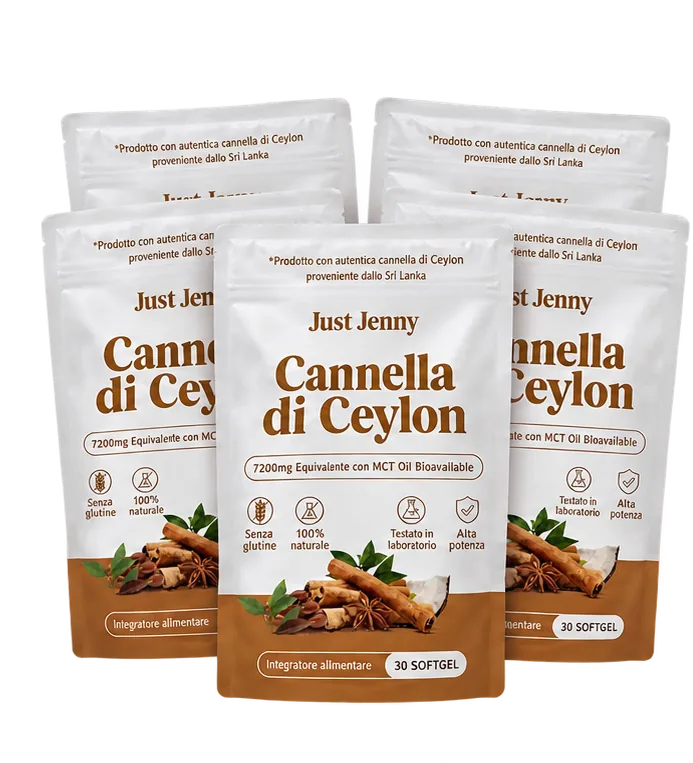
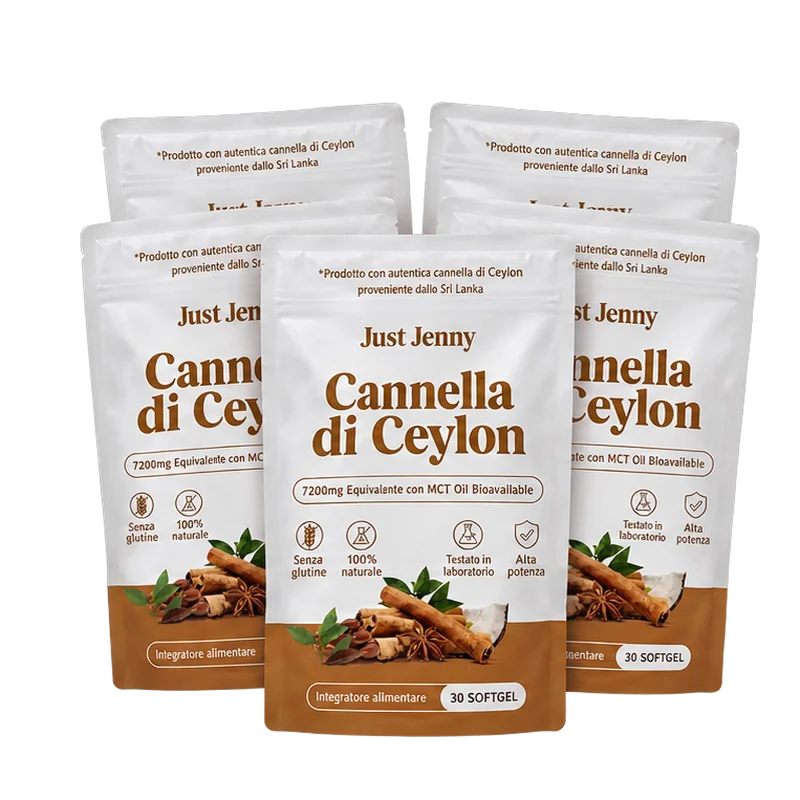
Compare: shorter bold title, pouch centered on column; black text on white buttons; bolder risk-free headline; offers headline black + new pouch photos
Claude-Session: https://claude.ai/code/session_015S3JaQdoW7XJTLZbosPqjp

Changed region(s): [[0.0606, 0.1507, 1.0, 0.9345], [0.5152, 0.1206, 0.5455, 0.3014]]

diff --git a/styles.css b/styles.css
@@ -37,12 +37,12 @@ svg{flex:none}
 .h2-md{font-family:Jost,Futura,sans-serif;font-weight:500;font-size:34px;line-height:1.2;color:var(--ink);max-width:720px}
 .h2-lg{font-family:Jost,Futura,sans-serif;font-weight:500;font-size:40px;line-height:1.15;color:var(--ink)}
 .h2-xl{font-family:Jost,Futura,sans-serif;font-weight:500;font-size:46px;line-height:1.15;color:var(--ink)}
-.h2-xl.light-w{font-weight:400}
+.h2-xl.light-w{font-weight:500}
 .eyebrow{font-size:15px;font-weight:600;letter-spacing:.1em;color:var(--orange-d)}
 .eyebrow-tag{background:var(--terra);color:#fff;font-size:13px;font-weight:700;letter-spacing:.04em;padding:8px 16px;border-radius:8px}
 .btn{display:inline-block;background:var(--terra);color:#fff;text-decoration:none;font-weight:700;font-size:17px;padding:18px 48px;border-radius:999px;text-align:center}
 .btn-wide{width:100%;max-width:520px}
-.btn-white{background:#fff;color:#8A4426}
+.btn-white{background:#fff;color:#111}
 .btn-shadow{background:var(--orange-d);box-shadow:0 10px 28px rgba(106,52,32,.14)}
 .guar-line{display:flex;align-items:center;justify-content:center;gap:8px;font-size:15px;color:var(--body)}
 .guar-line svg{width:16px;height:16px;fill:none;stroke:var(--orange);stroke-width:2;stroke-linecap:round;stroke-linejoin:round}
@@ -297,7 +297,7 @@ svg{flex:none}
 .cmp-cell:last-child{border-bottom:0}
 .x-dot{width:20px;height:20px;border-radius:50%;background:#6E6A66;color:#fff;font-size:11px;display:flex;align-items:center;justify-content:center}
 .cmp-copy{flex:1 1 380px;min-width:0;display:flex;flex-direction:column;gap:18px}
-.cmp-copy h2{font-family:Jost,sans-serif;font-weight:500;font-size:30px;line-height:1.15}
+.cmp-copy h2{font-family:Jost,sans-serif;font-weight:600;font-size:30px;line-height:1.15}
 .cmp-copy ul{margin:0;padding:0;list-style:none;display:flex;flex-direction:column;gap:11px;line-height:1.45;font-size:14px}
 .cmp-copy li{display:flex;gap:12px;align-items:flex-start}
 .ck{width:22px;height:22px;flex:none;margin-top:1px;border-radius:50%;background:#fff;position:relative}
@@ -644,7 +644,7 @@ svg{flex:none}
   .cmp-copy .btn{order:2;margin-top:22px;align-self:center;width:100%;max-width:360px}
   .cmp-copy .guar-line{order:3;margin-top:10px}
 }
-@media (max-width:600px){.cmp-copy h2{font-weight:600;margin-bottom:80px}}
+@media (max-width:600px){.cmp-copy h2{font-weight:700;font-size:25px;white-space:nowrap;margin-bottom:84px}}
 /* mobile risk-free: fit in one screen */
 @media (max-width:600px){
   .riskfree{padding:26px 20px 0}
@@ -750,6 +750,7 @@ svg{flex:none}
 .report.has-img > *{visibility:visible}
 .jj-video{position:absolute;inset:0;width:100%;height:100%;object-fit:cover;border-radius:inherit}
 .has-img{position:relative}
+.cmp-pouch.has-img,.cmp-photo.has-img{position:absolute;flex:none}
 .bundle-qty.has-img,.offer-row-img.has-img,.offer-img.has-img,.sticky-pouch.has-img,.cmp-pouch.has-img{background-origin:content-box;padding:5px;background-color:var(--vanilla)}
 .bundle-qty.has-img{width:62px;height:52px;border-radius:8px}
 .ph-box.has-img{border:0;background-color:#fff;background-size:contain!important;aspect-ratio:auto;min-height:120px}
@@ -796,17 +797,18 @@ svg{flex:none}
   .cmp-pouch.has-img{width:100px;height:128px;top:-52px}
   .cmp-photo.has-img{width:108px;height:108px;top:-36px}
 }
-.cmp-pouch.has-img{width:140px;height:176px;top:-84px}
-@media (max-width:600px){.cmp-pouch.has-img{width:112px;height:144px;top:-66px}}
+.cmp-pouch.has-img{width:150px;height:200px;top:-92px}
+@media (max-width:600px){.cmp-pouch.has-img{width:128px;height:168px;top:-72px}.cmp-photo.has-img{top:-44px}}
 /* risk-free foto: geen achtergrond, niet afgesneden */
 .riskfree-photo > div.has-img{background-color:transparent!important;border-radius:0;background-size:contain!important;background-position:center bottom!important;aspect-ratio:1200/797;max-width:560px;padding:0}
 @media (max-width:600px){.riskfree-photo > div.has-img{max-width:100%}}
 /* offers: titel vet, één kleur, groter */
-#offers .h2{font-size:38px;font-weight:700;color:var(--orange);letter-spacing:.01em;line-height:1.15}
-#offers .h2 .accent{color:inherit}
-@media (max-width:600px){#offers .h2{font-size:28px}}
+#offers .h2{font-size:38px;font-weight:700;color:var(--ink);letter-spacing:.01em;line-height:1.15}
+#offers .h2 .accent{color:var(--orange)}
+@media (max-width:600px){#offers .h2{font-size:min(28px,calc((100vw - 32px) * .074));white-space:nowrap}}
 /* offers: productfoto zonder achtergrond */
-.offer-img.has-img{background-color:transparent!important;padding:0}
+.offer-img.has-img,.offer-row-img.has-img{background-color:transparent!important;padding:0}
+@media (max-width:600px){.offer-row-img.has-img{zoom:1;width:72px;height:72px;background-size:contain!important;background-position:center!important}}
 /* lightbox klantfoto's */
 .rv-thumb.has-img,.review-img.has-img{cursor:zoom-in}
 .jj-lb{position:fixed;inset:0;z-index:200;background:rgba(17,12,10,.92);display:none;align-items:center;justify-content:center;padding:56px 64px}

diff --git a/index.html b/index.html
@@ -378,7 +378,7 @@
       </div>
     </div>
     <div class="cmp-copy">
-      <h2>Just Jenny a confronto con le altre marche</h2>
+      <h2>Just Jenny vs. altre marche</h2>
       <ul>
         <li><span class="ck"></span><span><strong>Ingredienti clinicamente studiati</strong> – ingredienti di comprovata efficacia</span></li>
         <li><span class="ck"></span><span><strong>Benefici percepibili nel giro di poche settimane</strong> – senti la differenza in poche settimane</span></li>
